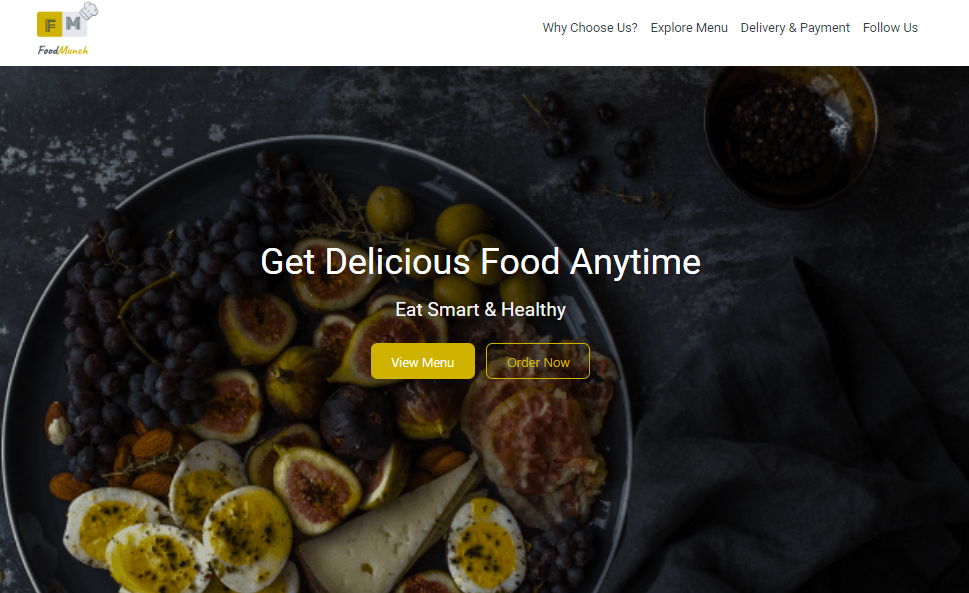
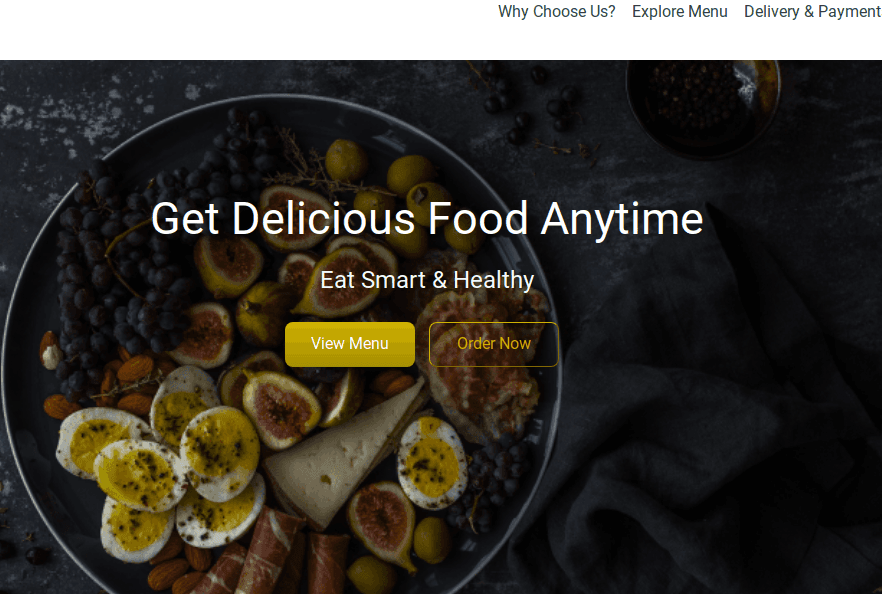
bug fix:foodmunch image

diff --git a/index.html b/index.html
@@ -170,7 +170,7 @@ Passionate and dedicated full-stack web developer with expertise in both front-e
             target="_blank"
           >
             <img
-              src="images/project Screenshots/foodMunchSrc2.PNG"
+              src="images/project Screenshots/foodMunchSrc.png"
               alt="banner3"
             />
           </a>
